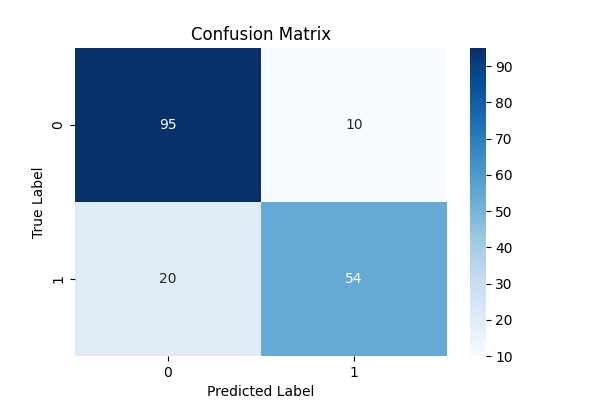
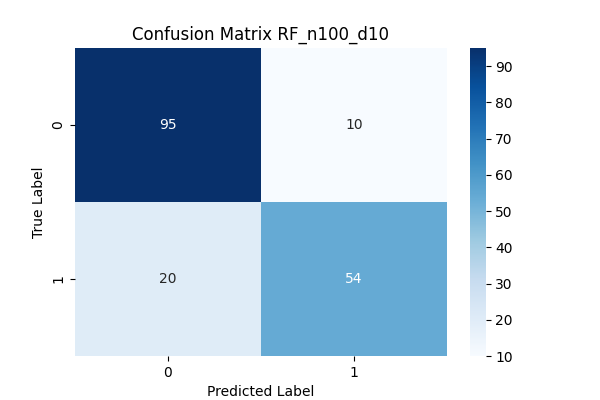
Update: Sinkronisasi Membangun_model dan Workflow-CI

Changed region(s): [[0.21, 0.06, 0.66, 0.12]]

diff --git a/Workflow-CI/MLProject/modelling.py b/Workflow-CI/MLProject/modelling.py
@@ -1,8 +1,8 @@
 import pandas as pd
 import mlflow
 import mlflow.sklearn
-import os
 import logging
+import os
 from sklearn.model_selection import train_test_split
 from sklearn.ensemble import RandomForestClassifier
 from sklearn.metrics import accuracy_score, precision_score, recall_score, f1_score
@@ -23,7 +23,7 @@ def setup_logging():
 
 def train_model():
     setup_logging()
-    logging.info("Starting training pipeline (CI/CD context)...")
+    logging.info("Starting training pipeline...")
 
     # Muat data
     logging.info("Loading data...")
@@ -31,13 +31,16 @@ def train_model():
         df = pd.read_csv('titanic_preprocessing.csv')
         logging.info("Data loaded from current directory.")
     except FileNotFoundError:
-        logging.error("titanic_preprocessing.csv not found!")
-        logging.error(f"Current working directory: {os.getcwd()}")
-        logging.error(f"Files in current directory: {os.listdir('.')}")
-        raise
+        # Fallback jika dijalankan dari root
+        try:
+            df = pd.read_csv('Membangun_model/titanic_preprocessing.csv')
+            logging.info("Data loaded from Membangun_model directory.")
+        except FileNotFoundError:
+            logging.error("titanic_preprocessing.csv not found!")
+            raise
     
     X = df.drop('Survived', axis=1)
-    # Ubah ke float untuk hindari peringatan skema MLflow
+    # Ubah ke float untuk hindari peringatan skema MLflow tentang kolom integer
     X = X.astype(float)
     y = df['Survived']
     
@@ -45,54 +48,26 @@ def train_model():
     logging.info("Splitting data...")
     X_train, X_test, y_train, y_test = train_test_split(X, y, test_size=0.2, random_state=42)
     
+    # Set eksperimen
+    mlflow.set_experiment("Titanic_Basic_Model")
+    
     # Aktifkan autolog
     mlflow.sklearn.autolog()
     
-    # Cek jika berjalan via 'mlflow run' (MLFLOW_RUN_ID akan diset)
-    if os.environ.get("MLFLOW_RUN_ID"):
-        logging.info("Running within MLflow Project context...")
-        # JANGAN set eksperimen, karena sudah ditentukan oleh mlflow run
-        # CATATAN: Saat MLFLOW_RUN_ID ada, mlflow.start_run() akan melanjutkan run itu
-        # Jangan buat nested run jika tujuannya menggunakan project run
-        
+    with mlflow.start_run():
+        logging.info("Training model...")
         model = RandomForestClassifier(n_estimators=100, random_state=42)
         model.fit(X_train, y_train)
         
+        # Evaluasi (Autolog menangani ini, tapi bagus untuk dicetak)
         y_pred = model.predict(X_test)
         acc = accuracy_score(y_test, y_pred)
         logging.info(f"Accuracy: {acc}")
         
-        # Log model secara eksplisit untuk memastikan tercatat
-        # Tapi hati-hati jangan duplikasi jika autolog bekerja
-        # signature = mlflow.models.infer_signature(X_train, model.predict(X_train))
-        # mlflow.sklearn.log_model(model, "model", signature=signature)
-            
-    # Cek jika kita sudah dalam run aktif (misal via code wrapper)
-    elif mlflow.active_run():
-        logging.info("Training model in existing run...")
-        model = RandomForestClassifier(n_estimators=100, random_state=42)
-        model.fit(X_train, y_train)
-        
-        y_pred = model.predict(X_test)
-        acc = accuracy_score(y_test, y_pred)
-        logging.info(f"Accuracy: {acc}")
-        
+        # Infer signature (opsional tapi praktik yang baik)
         signature = mlflow.models.infer_signature(X_train, model.predict(X_train))
         mlflow.sklearn.log_model(model, "model", signature=signature)
-    else:
-        # Set eksperimen hanya jika berjalan lokal/manual
-        mlflow.set_experiment("Titanic_Basic_Model")
-        with mlflow.start_run():
-            logging.info("Training model in new run...")
-            model = RandomForestClassifier(n_estimators=100, random_state=42)
-            model.fit(X_train, y_train)
-            
-            y_pred = model.predict(X_test)
-            acc = accuracy_score(y_test, y_pred)
-            logging.info(f"Accuracy: {acc}")
-            
-            signature = mlflow.models.infer_signature(X_train, model.predict(X_train))
-            mlflow.sklearn.log_model(model, "model", signature=signature)
+        logging.info("Model logged to MLflow.")
 
 if __name__ == "__main__":
     train_model()

diff --git a/Membangun_model/modelling_tuning.py b/Membangun_model/modelling_tuning.py
@@ -8,24 +8,40 @@ import matplotlib.pyplot as plt
 import seaborn as sns
 import os
 import dagshub
+import argparse
 
-def train_with_tuning():
-    # Inisialisasi DagsHub
-    dagshub.init(repo_owner='masbroumail', repo_name='SistemML01', mlflow=True)
-    
-    # Muat data
+def train_with_tuning(enable_dagshub=False):
+    if enable_dagshub:
+        # Inisialisasi DagsHub (Poin 6)
+        print("Using DagsHub Tracking...")
+        dagshub.init(repo_owner='masbroumail', repo_name='SistemML01', mlflow=True)
+        experiment_name = "Titanic_Tuned_Model_DagsHub"
+    else:
+        # Local Tracking (Poin 4)
+        print("Using Local Tracking...")
+        # Reset tracking URI to local just in case
+        mlflow.set_tracking_uri("")
+        experiment_name = "Titanic_Tuned_Model_Local"
+
+    # Muat data (Poin 1)
     print("Loading data...")
     try:
-        df = pd.read_csv('train_processed.csv')
+        df = pd.read_csv('titanic_preprocessing.csv')
     except FileNotFoundError:
-        df = pd.read_csv('Membangun_model/train_processed.csv')
+        try:
+            df = pd.read_csv('Membangun_model/titanic_preprocessing.csv')
+        except FileNotFoundError:
+            print("Error: Dataset not found!")
+            return
     
     X = df.drop('Survived', axis=1)
+    # Convert to float to avoid MLflow schema warnings
+    X = X.astype(float)
     y = df['Survived']
     
     X_train, X_test, y_train, y_test = train_test_split(X, y, test_size=0.2, random_state=42)
     
-    mlflow.set_experiment("Titanic_Tuned_Model")
+    mlflow.set_experiment(experiment_name)
     
     # Hyperparameter untuk di-tuning
     n_estimators_list = [50, 100]
@@ -36,7 +52,10 @@ def train_with_tuning():
     
     for n_est in n_estimators_list:
         for depth in max_depth_list:
-            with mlflow.start_run(run_name=f"RF_n{n_est}_d{depth}"):
+            run_name = f"RF_n{n_est}_d{depth}"
+            with mlflow.start_run(run_name=run_name):
+                # Poin 5: Manual Logging (Metrics & Params)
+                
                 # Logging Manual: Parameter
                 params = {"n_estimators": n_est, "max_depth": depth}
                 mlflow.log_params(params)
@@ -57,13 +76,13 @@ def train_with_tuning():
                 mlflow.log_metric("recall", rec)
                 mlflow.log_metric("f1_score", f1)
                 
-                print(f"Run: n_est={n_est}, depth={depth} -> Accuracy: {acc}")
+                print(f"Run: {run_name} -> Accuracy: {acc}")
                 
                 # Advanced: Log Artefak (Confusion Matrix)
                 cm = confusion_matrix(y_test, y_pred)
                 plt.figure(figsize=(6,4))
                 sns.heatmap(cm, annot=True, fmt='d', cmap='Blues')
-                plt.title('Confusion Matrix')
+                plt.title(f'Confusion Matrix {run_name}')
                 plt.ylabel('True Label')
                 plt.xlabel('Predicted Label')
                 
@@ -77,7 +96,9 @@ def train_with_tuning():
                 mlflow.log_artifact(cm_path)
                 
                 # Log model
-                mlflow.sklearn.log_model(model, "model")
+                # Poin 5: Manual logging model (instead of autolog)
+                signature = mlflow.models.infer_signature(X_train, model.predict(X_train))
+                mlflow.sklearn.log_model(model, "model", signature=signature)
                 
                 if acc > best_acc:
                     best_acc = acc
@@ -86,4 +107,8 @@ def train_with_tuning():
     print(f"Best Accuracy: {best_acc} with params {best_params}")
 
 if __name__ == "__main__":
-    train_with_tuning()
+    parser = argparse.ArgumentParser()
+    parser.add_argument("--dagshub", action="store_true", help="Enable DagsHub tracking")
+    args = parser.parse_args()
+    
+    train_with_tuning(enable_dagshub=args.dagshub)

diff --git a/Membangun_model/modelling.py b/Membangun_model/modelling.py
@@ -28,7 +28,7 @@ def train_model():
     # Muat data
     logging.info("Loading data...")
     try:
-        df = pd.read_csv('train_processed.csv')
+        df = pd.read_csv('titanic_preprocessing.csv')
         logging.info("Data loaded from current directory.")
     except FileNotFoundError:
         # Fallback jika dijalankan dari root
